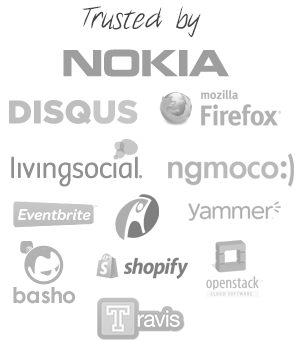
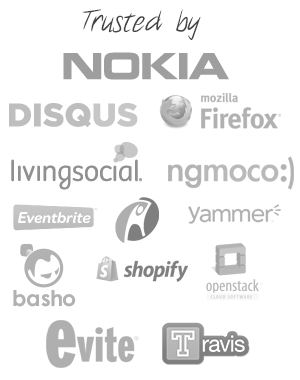
Add evite to the homepage

diff --git a/static/css/vagrant.base.css b/static/css/vagrant.base.css
@@ -328,7 +328,7 @@ ul.nav.list > li {
 
 .company-logos {
   background: url('/static/images/comp.png') no-repeat;
-  height:350px;
+  height:380px;
   width:300px;
   position: relative;
   float: right;
